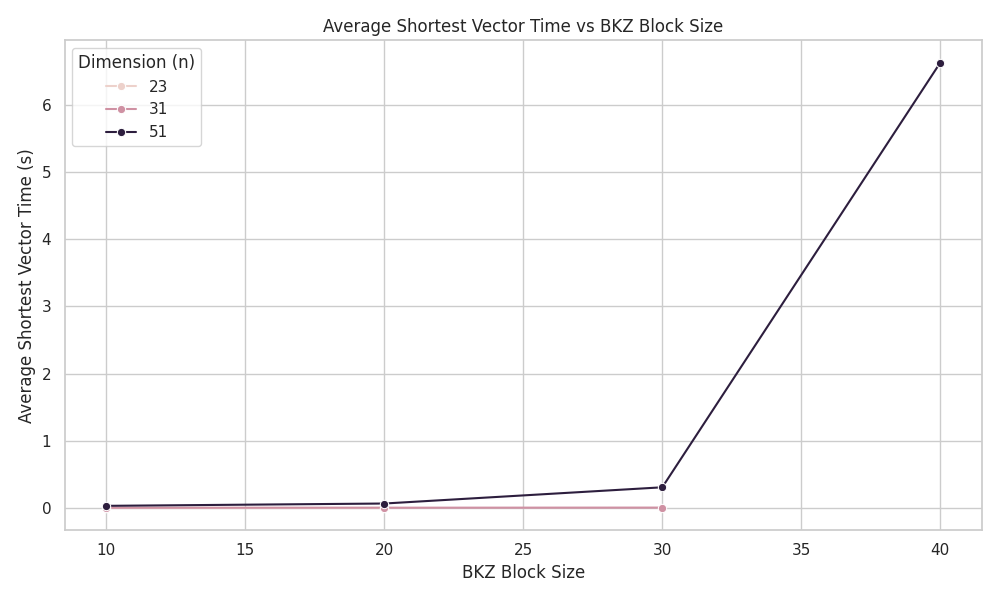
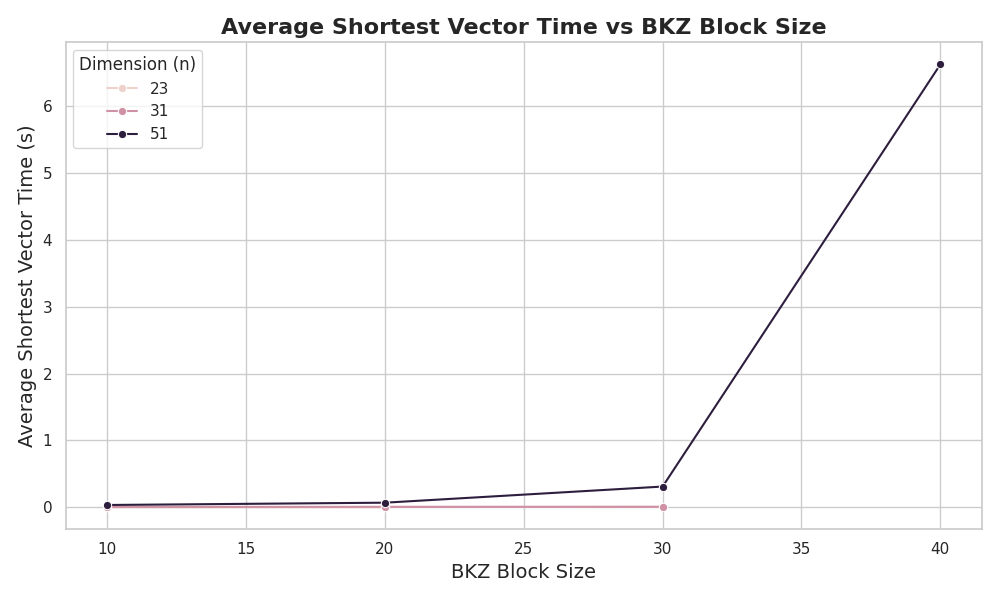
Added estimate_t_lee

Changed region(s): [[0.0, 0.03, 0.992, 0.75], [0.031, 0.81, 0.961, 0.96], [0.062, 0.51, 0.961, 0.54]]

diff --git a/estimate_t_values_lee.py b/estimate_t_values_lee.py
@@ -1,0 +1,57 @@
+
+def V_L(n, t, p):
+    """Calculate the volume of a Lee sphere of radius t in n-dimensional space over an alphabet of size p using dynamic programming."""
+    # Initialize a DP table where dp[i][j] is the volume of a Lee sphere in i dimensions with radius j
+    dp = [[0] * (t + 1) for _ in range(n + 1)]
+    
+    # Base case: In 0 dimensions, the volume is 1 for radius 0 (only the origin)
+    for j in range(t + 1):
+        dp[0][j] = 1
+
+    # Fill the DP table
+    for i in range(1, n + 1):
+        for j in range(t + 1):
+            # Start with the volume of the previous dimension at the same radius
+            dp[i][j] = dp[i - 1][j]
+            # Add contributions for each possible step size k within the limit
+            for k in range(1, min(j, (p - 1) // 2) + 1):
+                dp[i][j] += 2 * dp[i - 1][j - k]  # Both positive and negative shifts within bounds
+
+    return dp[n][t]
+
+def find_max_t(n, k, p):
+    """Find the maximum d such that the inequality holds."""
+    max_term = (p**(n - k + 1) - 1) / (p - 1)
+    d = 1
+
+    while True:
+        volume = V_L(n, d - 1, p)
+        inequality_term = (volume - 1) / 2
+        if max_term <= inequality_term:
+            break
+        d += 1
+
+    return (d - 1) // 2
+
+
+def run_estimations():
+    # n between 11 and 101
+    n_values = range(11, 202)
+    
+    # Generate primes up to 1000
+    primes = [5, 17, 211, 521]
+    
+    # Open file to save results
+    with open("./data/minimum_distance_estimations_lee.csv", "w") as file:
+        file.write("n,k,q,estimated_d\n")
+        
+        # Iterate over all n, k, and prime q combinations
+        for n in n_values:
+            for k in range(1, n):
+                for q in primes:
+                    estimated_t = find_max_t(n, k, q)
+                    file.write(f"{n},{k},{q},{estimated_t}\n")
+                    print(f"n={n}, k={k}, q={q} -> estimated t={estimated_t}", flush=True)
+
+if __name__ == "__main__":
+    run_estimations()

diff --git a/plot_times_bkz_block_size.py b/plot_times_bkz_block_size.py
@@ -24,9 +24,9 @@ sns.set(style="whitegrid")
 # Plotting avg_shortest_vector_time vs block_size for different dimensions (n)
 plt.figure(figsize=(10, 6))
 sns.lineplot(data=data, x='block_size', y='avg_shortest_vector_time', hue='n', marker='o')
-plt.title('Average Shortest Vector Time vs BKZ Block Size')
-plt.xlabel('BKZ Block Size')
-plt.ylabel('Average Shortest Vector Time (s)')
+plt.title('Average Shortest Vector Time vs BKZ Block Size', fontsize=16, weight='bold')
+plt.xlabel('BKZ Block Size',fontsize=14)
+plt.ylabel('Average Shortest Vector Time (s)', fontsize=14)
 plt.legend(title='Dimension (n)')
 plt.tight_layout()
 

diff --git a/estimate_t_values.py b/estimate_t_values.py
@@ -14,6 +14,7 @@ def estimate_minimum_distance(n, k, q):
             low = mid
     return low
 
+
 def run_estimations():
     # n between 11 and 101
     n_values = range(11, 202)
@@ -31,7 +32,7 @@ def run_estimations():
                 for q in primes:
                     estimated_d = estimate_minimum_distance(n, k, q)
                     file.write(f"{n},{k},{q},{estimated_d}\n")
-                    print(f"n={n}, k={k}, q={q} -> estimated d={estimated_d}")
+                    print(f"n={n}, k={k}, q={q} -> estimated t={estimated_d}")
 
 if __name__ == "__main__":
     run_estimations()
